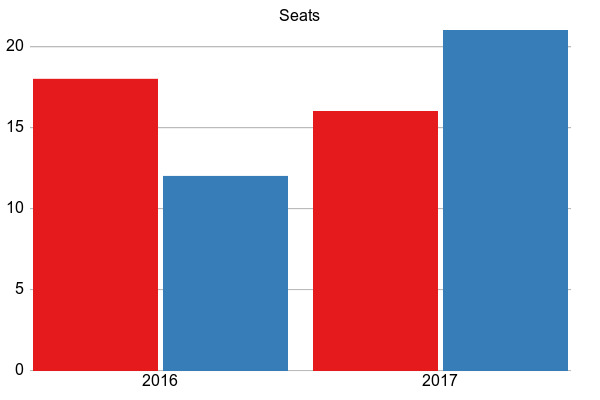
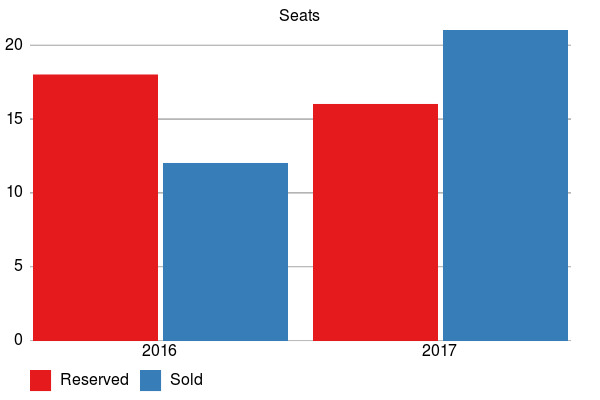
Makes extra space at the bottom for the labels

diff --git a/lib/graph_tool/bar_graph/bar_graph.rb b/lib/graph_tool/bar_graph/bar_graph.rb
@@ -23,7 +23,9 @@ class GraphTool::BarGraph < GraphTool::Graph
       height:       400,
       include_zero: true,
       group_margin: 20,
-      bar_margin:   3
+      bar_margin:   3,
+      label_height: 20,
+      label_margin: 10
     )
   end
 
@@ -59,23 +61,32 @@ class GraphTool::BarGraph < GraphTool::Graph
 
   def draw_labels
     return if options[:labels].nil? || labels.empty?
-    label_row_height = 20
-    label_row_margin = 10
-    label_length = 0
-    label_row = 0
+    label_row_length_sum = 0
+    label_row = 1
     labels.each_with_index do |label, index|
-      x = outer_margin + label_length
-      y = outer_margin + inner_height + label_row_height + label_row * (label_row_height + label_row_margin)
-      label_length += label.length * 10 + label_row_height + label_row_margin
-      if label_length > inner_width
-        label_length = 0
+      x = outer_margin + label_row_length_sum
+      y = height - outer_margin - label_total_height + label_row * (label_height + label_margin)
+      label_row_length_sum += label.length * 10 + label_height + label_margin
+      if label_row_length_sum > inner_width
+        label_row_length_sum = 0
         label_row += 1
       end
-      renderer.rect x, y, label_row_height, label_row_height, fill: colors[index], stroke: colors[index]
-      label_x = x + label_row_height + label_row_margin
-      label_y = y + label_row_height - renderer.font_size / 3
+      renderer.rect x, y, label_height, label_height, fill: colors[index], stroke: colors[index]
+      label_x = x + label_height + label_margin
+      label_y = y + label_height - renderer.font_size / 3
       renderer.text label, label_x, label_y, text_anchor: 'start', class: 'label'
     end
+  end
+
+  def label_total_height
+    return 0 if options[:labels].nil? || labels.empty?
+    label_rows * (label_height + label_margin)
+  end
+
+  def label_rows
+    return 0 if options[:labels].nil? || labels.empty?
+    avg_character_width = 10
+    ((labels.join.length * avg_character_width + 2 * labels.count * label_margin) / inner_width.to_f).ceil
   end
 
   def draw
@@ -107,7 +118,7 @@ class GraphTool::BarGraph < GraphTool::Graph
   end
 
   def inner_height
-    height - 2 * outer_margin
+    height - 2 * outer_margin - label_total_height
   end
 
   def calc_max

diff --git a/README.md b/README.md
@@ -18,7 +18,7 @@ Create images:
 
 ![example dot image](https://raw.githubusercontent.com/eikes/graph_tool/master/images/dots.jpg)
 
-    $ bin/graph_tool --data 18,16 --data 12,21 --style bar --title Seats --group-labels 2016,2017 --filename images/bars.jpg
+    $ bin/graph_tool --data 18,16 --data 12,21 --style bar --title Seats --labels Reserved,Sold --group-labels 2016,2017 --filename images/bars.jpg
 
 ![example bar graph](https://raw.githubusercontent.com/eikes/graph_tool/master/images/bars.jpg)
 
